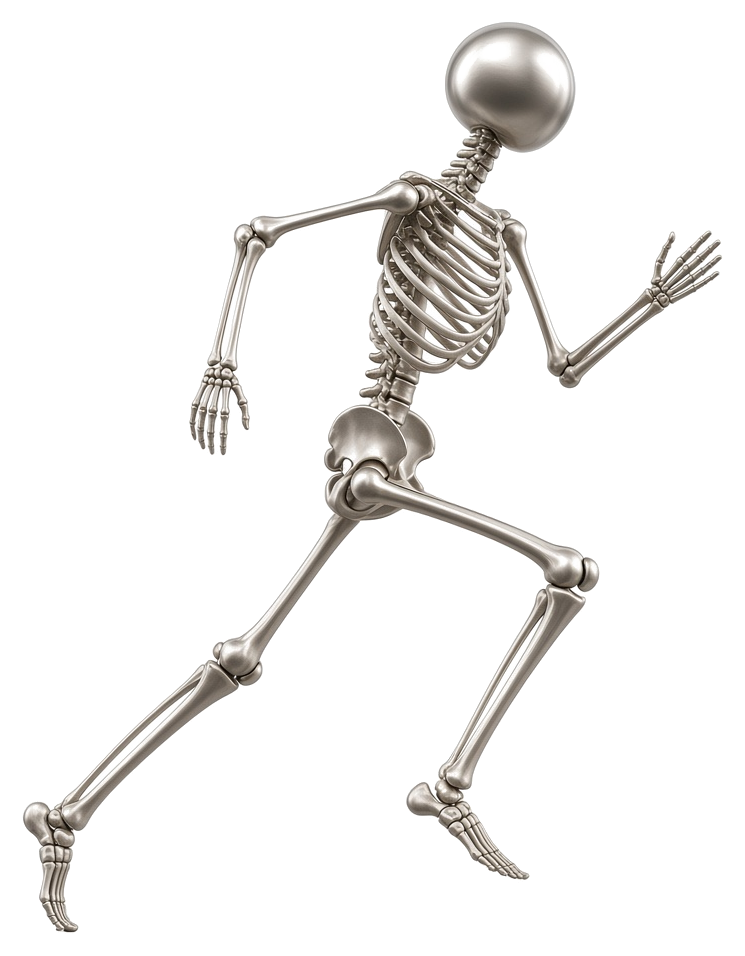
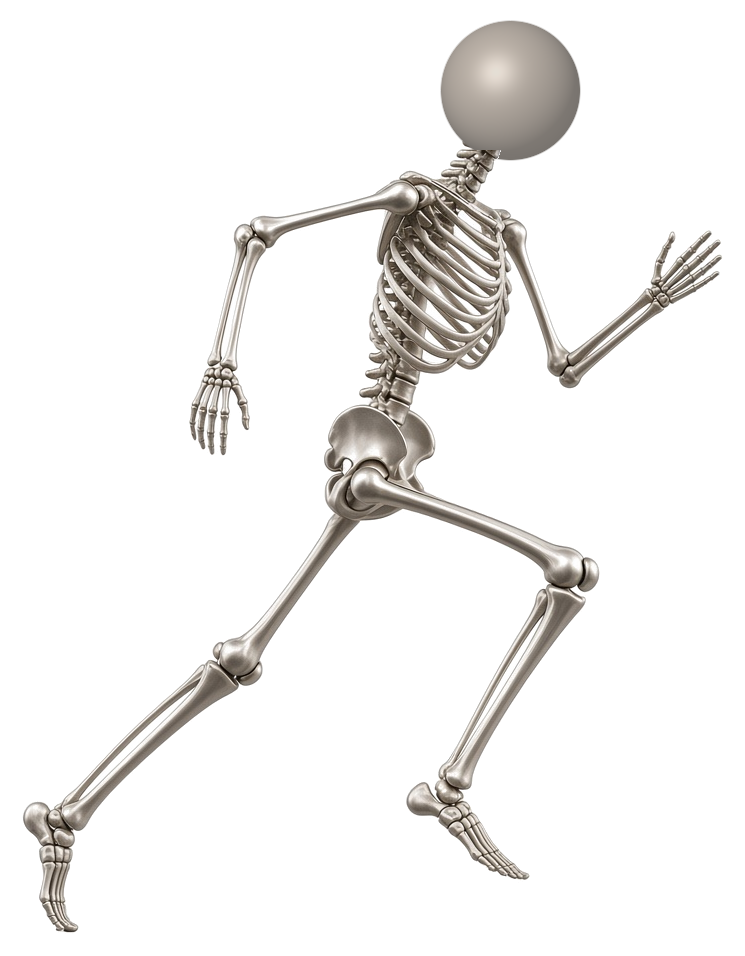
32.339: Replace the broken chrome skull with a complete sphere.
Keep the current runner body. Swap only the head for a full matte silver ball so the skull reads as a closed circle on dark glass instead of a bitten chrome highlight.

Changed region(s): [[0.5866, 0.0, 0.8027, 0.182]]

diff --git a/frontend/public/index.html b/frontend/public/index.html
@@ -1,15 +1,15 @@
 <!DOCTYPE html>
 <html lang="en">
   <head>
-    <link rel="stylesheet" href="%PUBLIC_URL%/clinic_touch.css?v=32.338" />
-    <link rel="stylesheet" href="%PUBLIC_URL%/liquid_glass.css?v=32.338" />
+    <link rel="stylesheet" href="%PUBLIC_URL%/clinic_touch.css?v=32.339" />
+    <link rel="stylesheet" href="%PUBLIC_URL%/liquid_glass.css?v=32.339" />
     <meta charset="utf-8" />
     <link rel="icon" href="%PUBLIC_URL%/favicon.ico?v=32.86" sizes="any" />
     <link rel="icon" href="%PUBLIC_URL%/logo192.png?v=32.86" type="image/png" sizes="192x192" />
     <link rel="icon" href="%PUBLIC_URL%/favicon-32.png?v=32.86" type="image/png" sizes="32x32" />
     <meta name="viewport" content="width=device-width, initial-scale=1, viewport-fit=cover" />
     <meta http-equiv="Cache-Control" content="no-cache, no-store, must-revalidate" />
-    <meta name="nl-version" content="32.338" />
+    <meta name="nl-version" content="32.339" />
     <meta name="theme-color" content="#121820" media="(prefers-color-scheme: dark)" />
     <meta name="theme-color" content="#121820" />
     <style>html,body{margin:0;padding:0;background:#121820;color:#fff;color-scheme:dark;font-family:Inter,system-ui,sans-serif}#root{min-height:100vh}</style>
@@ -76,10 +76,10 @@
   <body>
     <noscript>You need to enable JavaScript to run this app.</noscript>
     <div id="root"><p style="padding:2rem;text-align:center;color:#fff9">Loading NeuroLab…</p></div>
-    <script src="%PUBLIC_URL%/pwa_ipad_sync.js?v=32.338"></script>
+    <script src="%PUBLIC_URL%/pwa_ipad_sync.js?v=32.339"></script>
     <script>
       (function () {
-        var href = "%PUBLIC_URL%/liquid_glass.css?v=32.338";
+        var href = "%PUBLIC_URL%/liquid_glass.css?v=32.339";
         function pin() {
           var el = document.getElementById("nl-liquid-glass-link");
           if (!el) {
